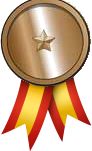
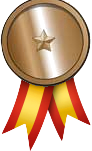
direct give updates
updates to formatting and information on the direct give page
also:
 - gave donation medal images transparent backgrounds
 - updated DGC link in navbar

diff --git a/direct_give.html b/direct_give.html
@@ -9,12 +9,17 @@
         <link href="https://fonts.googleapis.com/css?family=Lato" rel="stylesheet" type="text/css" />
         <link href="css.css" rel="stylesheet" type="text/css" />
         <script src="https://ajax.googleapis.com/ajax/libs/jquery/1.12.4/jquery.min.js"></script><script src="https://maxcdn.bootstrapcdn.com/bootstrap/3.3.7/js/bootstrap.min.js"></script><script src="paralax.js"></script>
-        <style type="text/css">.prize-image{
-            width: 75%
+        <style type="text/css">
+
+            .prize-image{
+                width: 75%;
+                padding: 5px;
             }
-            #prizes{
-                background-color: rgba(0,0,0,0.05);
+
+            .medal-label {
+                padding: 5px;
             }
+
             table, th, td{
                 border: 1px solid rgb(150,150,150);
                 border-collapse: collapse;
@@ -25,9 +30,20 @@
                 color: rgb(75,75,75);
                 text-align: center;
             }
-            .donation-level-range{
+            .donation-level-range {
                 font-weight: normal;
             }
+
+            #donation-level-table {
+                width: 40%;
+            }
+
+            @media screen and (max-width: 768px){
+                #donation-level-table {
+                width: 100%;
+            } 
+            }
+
             #plantimun{
                 color: blue;
             }
@@ -40,6 +56,25 @@
             #bronze{
                 color: brown;
             }
+
+            .row {
+                margin: 0px;
+                padding: 15px;
+            }
+
+            .container-fluid{
+                padding: 0px;
+            }
+
+            li {
+                color: black;
+            }
+
+            hr {
+                width: 85%;
+                border-top: 1px solid rgba(0,0,0,0.15);
+            }
+
         </style>
     </head>
     <body id="top" onload="loadImage(0)">
@@ -53,73 +88,92 @@
             <h1>Direct Give Competition</h1>
             <p>Funding CLIPCO</p>
         </div>
-        <div class="container-fluid bg-grey" id="info">
+        <div class="container-fluid bg-grey">
             <div class="row">
-                <div class="col-sm-8 col-xs-12">
-                    <h4>CLIP depends completely on donations to fund the programs not covered by normal school district funds. These programs include the Mandarin Chinese curriculum, CLIP Art program, and Homework Club to name a few. Last year, we raised a total of $314,178 ($246,727 from your generous donations, $67,451 in corporate matches.) CLIP&rsquo;s 2017 - 2018 budget remains relatively flat to last year and is set at $334,867. There are nominal increases due to cost of instructional materials and professional development for teachers.</h4>
-                    <br>
-                    <h4>This year CLIPCO is asking CLIP families to donate <b>$450</b> for each child in Kindergarten to 6th grade, and <b>$225</b> for each child in 7th to 8th grade to cover their share of CLIP educational expenses. As with last years, CLIPCO is offering three different prizes to encourage a friendly contest:</h4>
-                    <br>
+                <div class="col-sm-8 col-xs-12" id="info">
+                    <h4 class="indent">CLIP depends completely on donations to fund the programs not covered by normal school district funds. These programs include the Mandarin Chinese curriculum, CLIP Art program, and Homework Club to name a few. Last year, we raised a total of $321,560 ($258,996 from your generous donations, $62,564 in corporate matches.) Earlier this year, Cupertino Union School District agreed to contribute ~$70,000 towards staff and curriculum costs and zero period for 6th grade. With this additional support, this year’s CLIP budget has been set at $287,625.</h4>
+
+                    <h4 class="indent">The lower budget target has also allowed us to lower the per student donation amount for this year! This year CLIPCO is asking CLIP families to donate <b>$425</b> for each child in Kindergarten to 5th grade, and <b>$200</b> for each child in 6th to 8th grade to cover their share of CLIP educational expenses. As with last years, CLIPCO is offering three different prizes to encourage a friendly contest:</h4>
+
                     <ul>
-                        <li>Individual - An individual prize is awarded to those donating at least the minimum ask per student ($450 for K-6th, $225 for 7th and 8th).</li>
+                        <li>Individual - An individual prize is awarded to those donating at least the minimum ask per student ($425 for K-5th, $200 for 6th-8th).</li>
                         <li>Class - A Tshirt prize is awarded to the home room (Meyerholz) or grade (Miller) that meets 90% participation rate and 90% target dollar amount.</li>
                         <li>Grand Prize - A Grand Prize awarded to the top 3 home room (Meyerholz) or grade (Miller) with the highest percentage towards the target dollar amount.</li>
                     </ul>
+
                     <br>
-                    <p><strong>Contest Rules:</strong></p>
+                    <h4><strong>Contest Rules:</strong></h4>
                     <ol>
-                        <li>Donations must be received by 11:59pm, <b>November 14, 2017</b> in order to be counted.</li>
-                        <li>Only donations of the minimum ask ($450 for K-6, $225 for 7th and 8th) or more will count towards the contest.</li>
+                        <li>Donations must be received by 11:59pm, <b>DATE TBD</b> in order to be counted.</li>
+                        <li>Only donations of the minimum ask ($425 for K-5, $200 for 6th-8th) or more will count towards the contest.</li>
                         <li>Target dollar amount is determined by the total number of students per home room (or grade if Miller students) multiplied by the requested donation amount.</li>
                         <li>Donors to be recognized in a future publication with an option to remain anonymous.</li>
                         <li>Corporate matching amounts do not count towards the Direct Give Contest.</li>
                     </ol>
                     <p></p>
                     <br>
-                    <h4>CLIP is grateful for the financial support received from our community. We would like to recognize your generosity by displaying your name on the CLIPCO website throughout the school year and on the December CLIPCO Newsletter after the Direct Give Contest. Donors also have the option to remain anonymous. Tiers of recognition indicated below are <b>per student </b>.</h4>
-                    <br>
+                </div>
+                <div class="col-sm-4 col-xs-12" id="stock-image">
+                    <!-- scripty mcscriptface will fill this in--><script src="imageLoading.js" id="image-laoding-script"></script>
+                </div>
+            </div>
+            <hr>
+            <div class="row">
+                <div class="col-xs-12">
+                    <h4 class="indent">CLIP is grateful for the financial support received from our community. We would like to recognize your generosity by displaying your name on the CLIPCO website throughout the school year and on the December CLIPCO Newsletter after the Direct Give Contest. Donors also have the option to remain anonymous. Tiers of recognition indicated below are <b>per student</b>.</h4>
                     <h4><strong>Donation Levels:</strong></h4>
-                    <p></p>
-                    <table id="donation-level-table">
+                    <table id="donation-level-table" class="auto-scroll">
                         <thead>
                             <tr>
                                 <th>
                                     <!--blank-->
                                 </th>
-                                <th>Kindergarten - 6th grade</th>
-                                <th>7th grade - 8th grade</th>
+                                <th>Kindergarten - 5th grade</th>
+                                <th>6th grade - 8th grade</th>
                             </tr>
                         </thead>
                         <tbody>
                             <tr>
-                                <td><img alt="bronze medal" class="medal-image" src="images/bronze-medal.png" /><span class="medal-label" id="bronze">Bronze</span></td>
-                                <td class="donation-level-range">
-                                    <p>donation of $450</p>
+                                <td>
+                                    <img alt="bronze medal" class="medal-image" src="images/bronze-medal.png" />
+                                    <span class="medal-label" id="bronze">Bronze</span>
                                 </td>
                                 <td class="donation-level-range">
-                                    <p>donation of $225</p>
-                                </td>
-                            </tr>
-                            <tr>
-                                <td><img alt="silver medal" class="medal-image" src="images/silver-medal.png" /><span class="medal-label" id="silver">Silver</span></td>
-                                <td class="donation-level-range">
-                                    <p>donation of $451 to $699</p>
+                                    <p>donation of $425</p>
                                 </td>
                                 <td class="donation-level-range">
-                                    <p>donation of $226 to $349</p>
+                                    <p>donation of $200</p>
                                 </td>
                             </tr>
                             <tr>
-                                <td><img alt="gold medal" class="medal-image" src="images/gold-medal.png" /><span class="medal-label" id="gold">Gold</span></td>
-                                <td class="donation-level-range">
-                                    <p>donation of $700 - $949</p>
+                                <td>
+                                    <img alt="silver medal" class="medal-image" src="images/silver-medal.png" />
+                                    <span class="medal-label" id="silver">Silver</span>
                                 </td>
                                 <td class="donation-level-range">
-                                    <p>donation of $350 to $474</p>
+                                    <p>donation of $426 to $650</p>
+                                </td>
+                                <td class="donation-level-range">
+                                    <p>donation of $201 to $325</p>
                                 </td>
                             </tr>
                             <tr>
-                                <td><img alt="platinum medal" class="medal-image" src="images/platinum-medal.png" /><span class="medal-label" id="platimun">Platinum</span></td>
+                                <td>
+                                    <img alt="gold medal" class="medal-image" src="images/gold-medal.png" />
+                                    <span class="medal-label" id="gold">Gold</span>
+                                </td>
+                                <td class="donation-level-range">
+                                    <p>donation of $651 - $949</p>
+                                </td>
+                                <td class="donation-level-range">
+                                    <p>donation of $326 to $474</p>
+                                </td>
+                            </tr>
+                            <tr>
+                                <td>
+                                    <img alt="platinum medal" class="medal-image" src="images/platinum-medal.png" />
+                                    <span class="medal-label" id="platimun">Platinum</span>
+                                </td>
                                 <td class="donation-level-range">
                                     <p>donation of $950 or more</p>
                                 </td>
@@ -129,59 +183,30 @@
                             </tr>
                         </tbody>
                     </table>
-                </div>
-                <div class="col-sm-4 col-xs-12" id="stock-image">
-                    <!-- scripty mcscriptface will fill this in--><script src="imageLoading.js" id="image-laoding-script"></script>
+                    <br>               
+                    <a href="honor_roll.html">Go here to see CLIP honor roll</a>
                 </div>
             </div>
-        </div>
-        <div class="container-fluid bg-grey" id="more-info">
-            <div class="row">
-                <a href="honor_roll.html">Go here to see CLIP honor roll</a>
-                <h4>You may <a href="donations.html">donate online</a> through PayPal using your credit card, debit card or <b>PayPal</b> account or Download the <a href="documents/17-18pledgeform.pdf">Pledge Form</a> to pay by check. Please return this form along with your payment (payable to &quot;CLIPCO&quot;) to the Meyerholz office, your student&#39;s home room teacher or your CLIPCO grade.<br />
-                    <br />
-                    <b>If you have more questions about the Direct Give Contest, please read our <a href="donateFAQ.html">FAQ</a>. If the information there does not answer your question, please contact your <a href="contact.html">CLIPCO grade representative.</a></b><br />
-                    <br />
-                    Please don&#39;t forget to potentially double your donation by applying for <b>corporate matching</b> through your employer. Corporate matching helps CLIPCO tremendously in making up for donation shortfalls. Every year, the corporate match donations to CLIPCO contribute between 15-25% of our annual budget. Please see <a href="donateFAQ.html#corporate-matching">How do I get corporate matching for my donation?</a> for more information.
+            <hr>
+            <div class="row" id="more-info">
+                <h2 class="text-center">How to Donate</h2>
+                <h4 class="indent">You may <a href="donations.html">donate online</a> through PayPal using your credit card, debit card or <b>PayPal</b> account or Download the <a href="documents/17-18pledgeform.pdf">Pledge Form</a> to pay by check. Please return this form along with your payment (payable to &quot;CLIPCO&quot;) to the Meyerholz office, your student&#39;s home room teacher or your CLIPCO grade.</h4>
+                <h4 class="indent"><b>If you have more questions about the Direct Give Contest, please read our <a href="donateFAQ.html">FAQ</a>. If the information there does not answer your question, please contact your <a href="contact.html">CLIPCO grade representative.</a></b></h4>
+                <h4 class="indent">Please don&#39;t forget to potentially double your donation by applying for <b>corporate matching</b> through your employer. Corporate matching helps CLIPCO tremendously in making up for donation shortfalls. Every year, the corporate match donations to CLIPCO contribute between 15-25% of our annual budget. Please see <a href="donateFAQ.html#corporate-matching">How do I get corporate matching for my donation?</a> for more information.
                 </h4>
             </div>
-        </div>
-        <div class="container-fluid" id="prizes">
-            <div class="row">
-                <div class="text-center">
+            <hr>
+            <div class="row" id="prizes">
+                <div class="col-sm-12 text-center">
                     <h2>Prizes</h2>
-                </div>
-                <div class="col-sm-12">
-                    <center>
-                        <h4>As with last years, CLIPCO is offering three different prizes to encourage a friendly contest.</h4>
-                    </center>
-                    <table>
-                        <thead>
-                            <tr>
-                                <th>Individual Prize</th>
-                                <th>Class Prize</th>
-                                <th>Grand Prize</th>
-                            </tr>
-                        </thead>
-                        <tbody>
-                            <tr>
-                                <td><img alt="desk accessory" class="prize-image" src="images/DeskAccessory.jpeg" /></td>
-                                <td><img alt="dog shirt" class="prize-image" src="images/2017DogTshirt.png" /></td>
-                                <td><img alt="cooler lunch bag" class="prize-image" src="images/access-kooler-bag-lun16-red.jpg" /></td>
-                            </tr>
-                            <tr>
-                                <td>Desk Accessory</td>
-                                <td>Dog Shirt</td>
-                                <td>Insulated Lunch Bag</td>
-                            </tr>
-                        </tbody>
-                    </table>
-                    <footer class="container-fluid text-center">
-                        <a href="#top" title="To Top"><span class="glyphicon glyphicon-chevron-up"></span></a>
-                    </footer>
+                    <h4>As with last years, CLIPCO is offering three different prizes to encourage a friendly contest.</h4>
+                    <h2>Direct Give Contest Prizes for 2018-2019 To Be Announced</h2>
                 </div>
             </div>
         </div>
+        <footer class="text-center">
+                <a href="#top" title="To Top"><span class="glyphicon glyphicon-chevron-up"></span></a>
+            </footer>
         <script>
             $(document).ready(function() {
                 // Add smooth scrolling to all links in navbar  footer link

diff --git a/subpage_navbar.html b/subpage_navbar.html
@@ -56,7 +56,7 @@ display: block;
                 <li class="dropdown">
                     <a href="http://www.cusdclipco.org/donation.html" class="dropdown-toggle" data-toggle="dropdown" role="button" aria-expanded="false">DONATE<span class="caret"></span></a>
                     <ul class="dropdown-menu color" role="menu">
-                        <li><a href="direct_give.html">Direct Give</a></li>
+                        <li><a href="direct_give.html">Direct Give Competition</a></li>
                         <li><a href="donations.html">Donations</a></li>
                         <li><a href="donateFAQ.html">Donations FAQ</a></li>
                     </ul>
